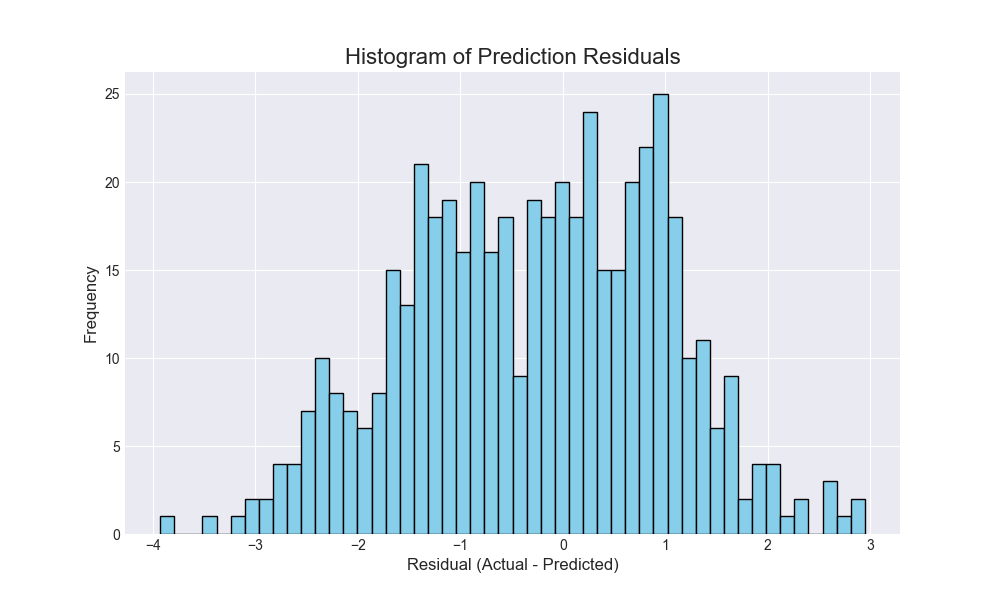
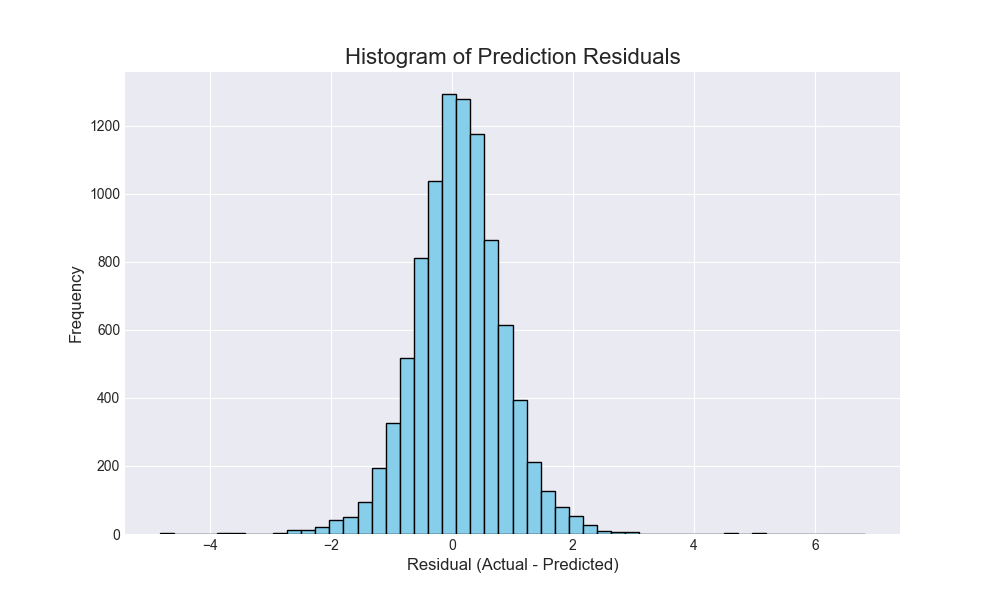
Train on 2023+ data and eval on last 20 percent window

diff --git a/src/train.py b/src/train.py
@@ -74,6 +74,12 @@ def train_model(
 
     df_featured, feature_cols = prepare_keras_input_data(hourly_data_path, features_to_use)
 
+    # Restrict training data to records from 2023-01-01 onwards.
+    # Adjust this cutoff when you want to change the training window.
+    df_featured["Time"] = pd.to_datetime(df_featured["Time"])
+    cutoff_date = pd.Timestamp("2023-01-01")
+    df_featured = df_featured[df_featured["Time"] >= cutoff_date].copy()
+
     # Split data into training and validation sets
     split_index = int(len(df_featured) * TR_SPLIT)
     df_train_raw = df_featured.iloc[:split_index].copy()
@@ -195,8 +201,16 @@ if __name__ == "__main__":
         best_hps_overall = {}
         best_hps_path = 'best_hyperparameters.json'
         if os.path.exists(best_hps_path):
-            with open(best_hps_path, 'r') as f:
-                best_hps_overall = json.load(f)
+            try:
+                with open(best_hps_path, 'r') as f:
+                    content = f.read().strip()
+                    if content:
+                        best_hps_overall = json.loads(content)
+                    else:
+                        best_hps_overall = {}
+            except json.JSONDecodeError:
+                # If file is corrupt/partial, ignore and start fresh
+                best_hps_overall = {}
         else:
             best_hps_overall = {}
 

diff --git a/src/evaluate_model.py b/src/evaluate_model.py
@@ -140,10 +140,13 @@ def evaluate_model_performance(
     # --- 2. Filter and Prepare Data ---
     df_full_featured, _ = prepare_keras_input_data(hourly_data_csv, features_to_use) # Pass features_to_use
 
-    if len(df_full_featured) < validation_window_size:
-        print(f"Warning: Not enough data ({len(df_full_featured)} rows) for the specified validation window size ({validation_window_size}). Using all available data.")
-        validation_window_size = len(df_full_featured)
+    # Use the last 20% of the available data as the validation/evaluation window.
+    total_rows = len(df_full_featured)
+    if total_rows == 0:
+        print("Error: No data available in hourly feature set for evaluation.")
+        return
 
+    validation_window_size = max(1, int(total_rows * 0.2))
     df_eval_featured = df_full_featured.iloc[-validation_window_size:].copy()
 
     if len(df_eval_featured) < tsteps + ROWS_AHEAD:

diff --git a/src/config.py b/src/config.py
@@ -170,8 +170,16 @@ def load_tuned_hyperparameters(
     if not os.path.exists(best_hps_path):
         return {}
 
-    with open(best_hps_path, "r") as f:
-        best_hps_data = json.load(f)
+    try:
+        with open(best_hps_path, "r") as f:
+            # Handle empty or invalid JSON by falling back to defaults
+            content = f.read().strip()
+            if not content:
+                return {}
+            best_hps_data = json.loads(content)
+    except json.JSONDecodeError:
+        # If the file is corrupted or partially written, ignore it and use defaults
+        return {}
 
     freq_block = best_hps_data.get(frequency, {})
     return freq_block.get(str(tsteps), {})
